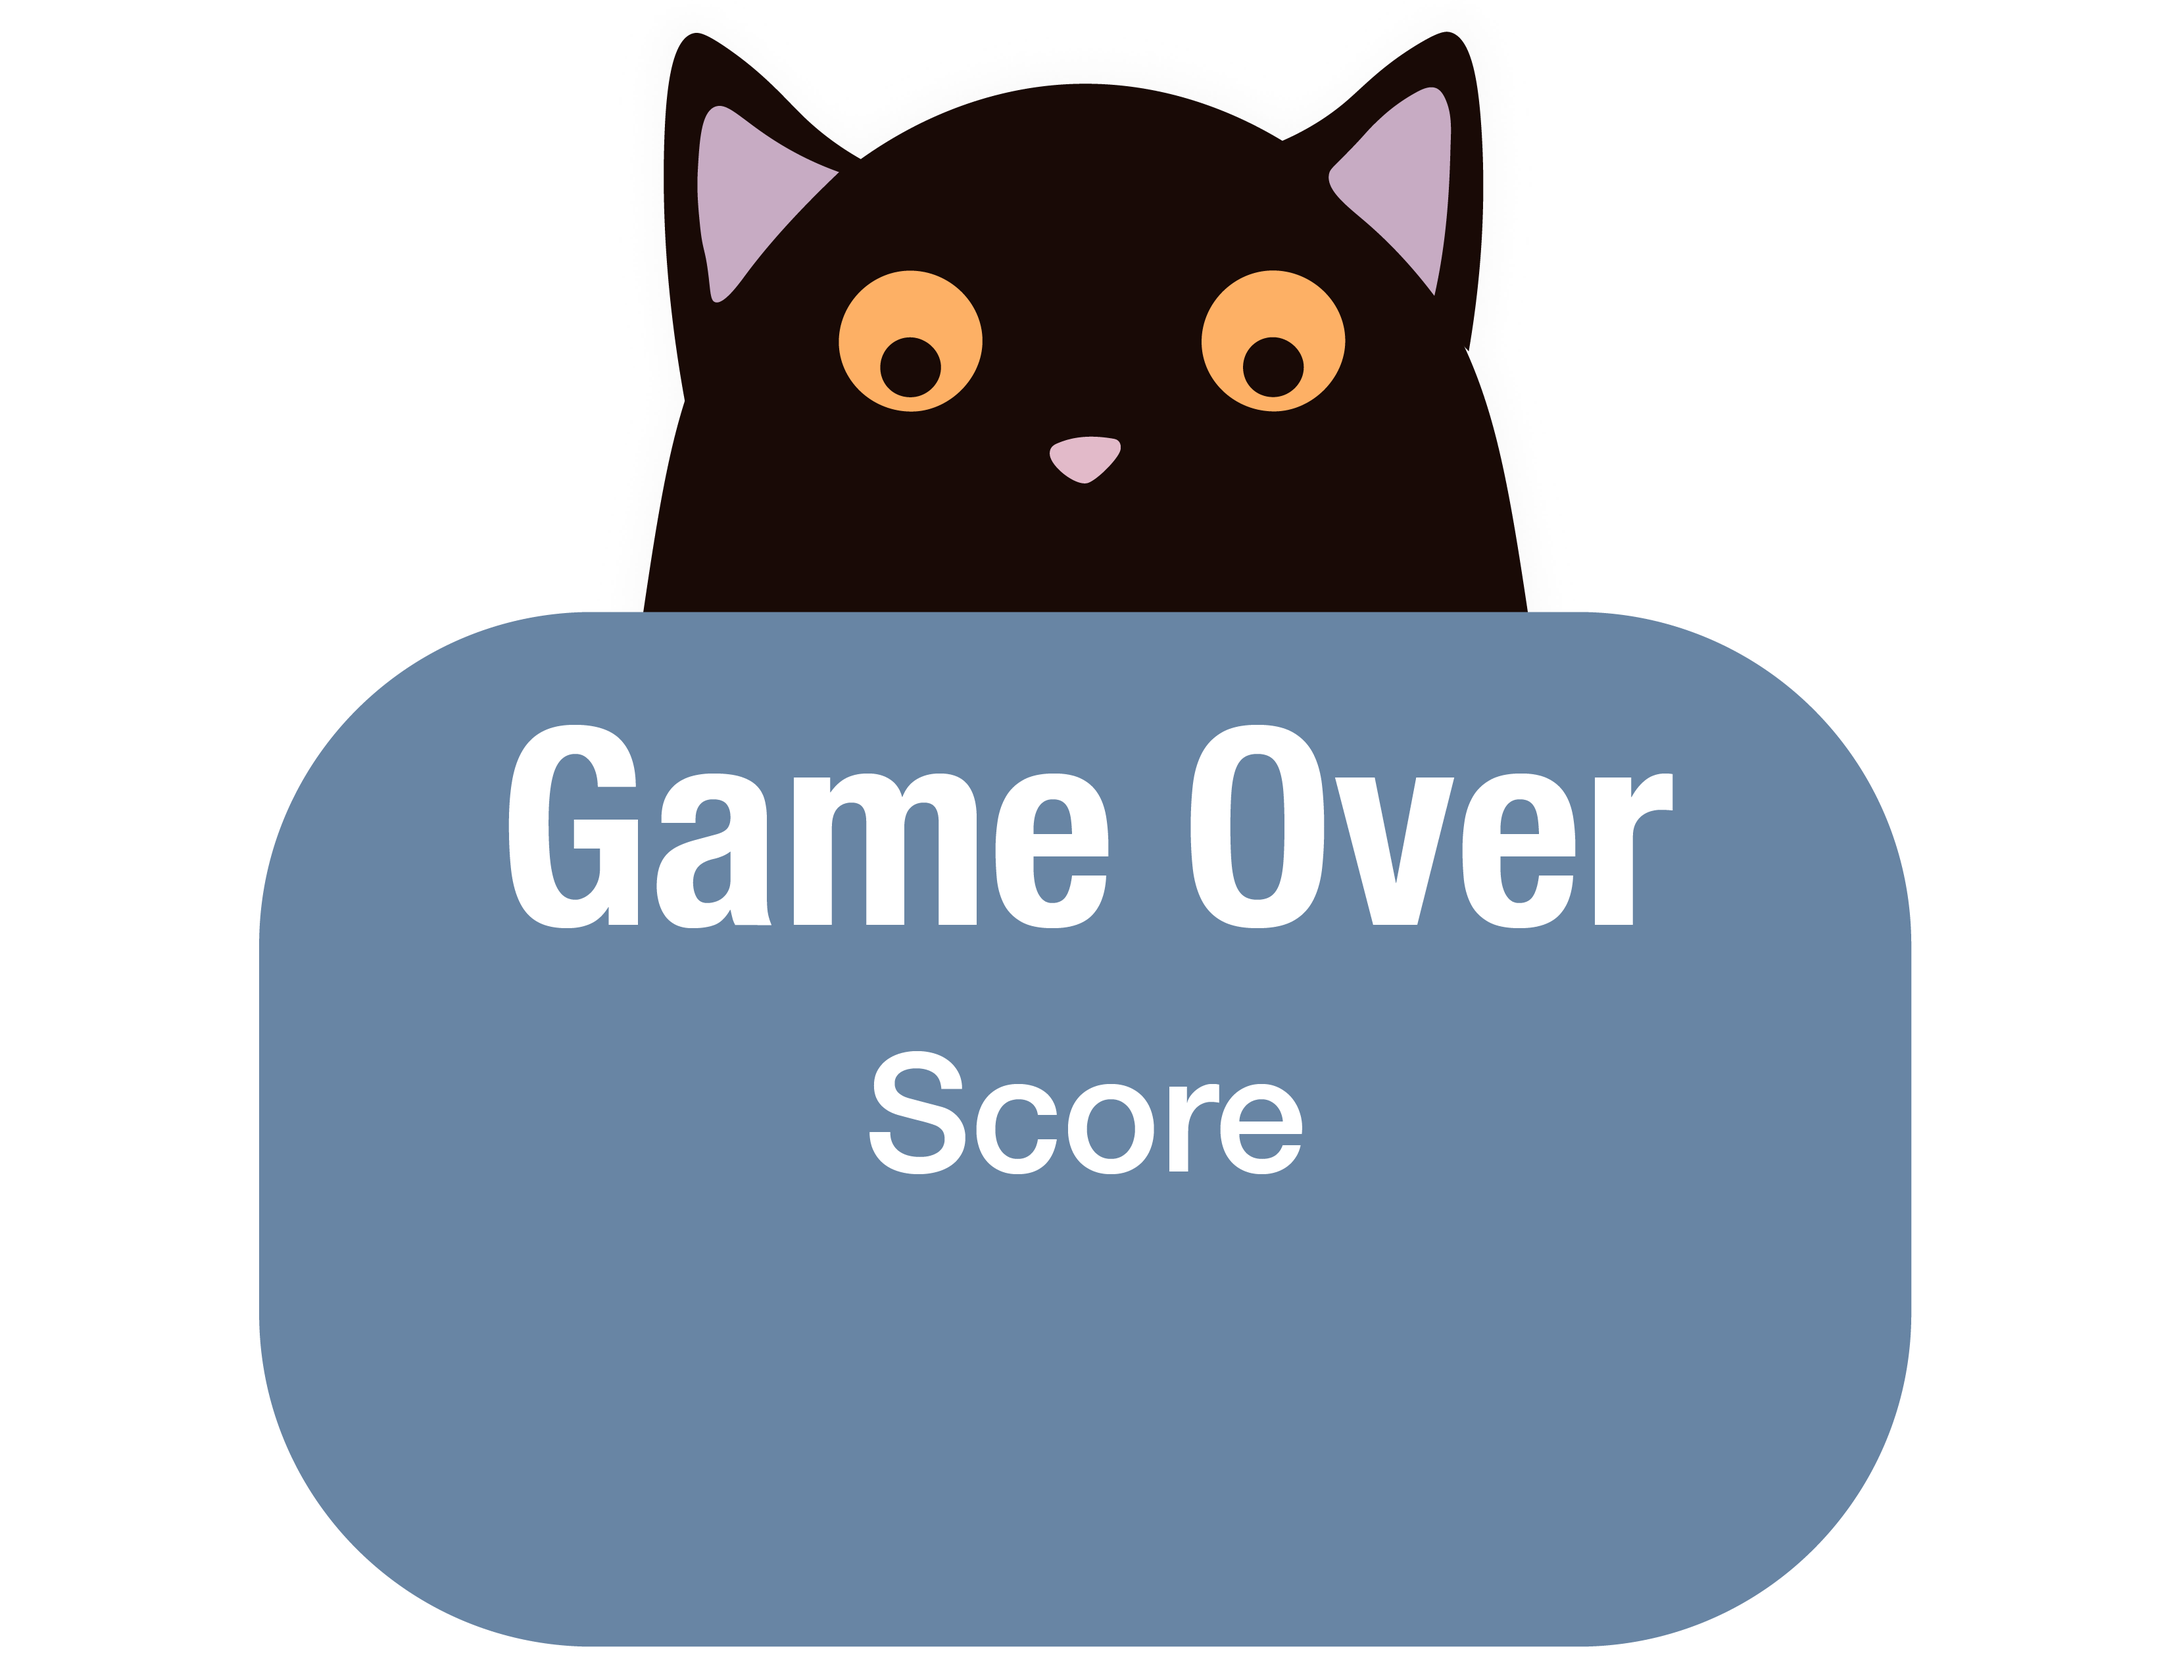
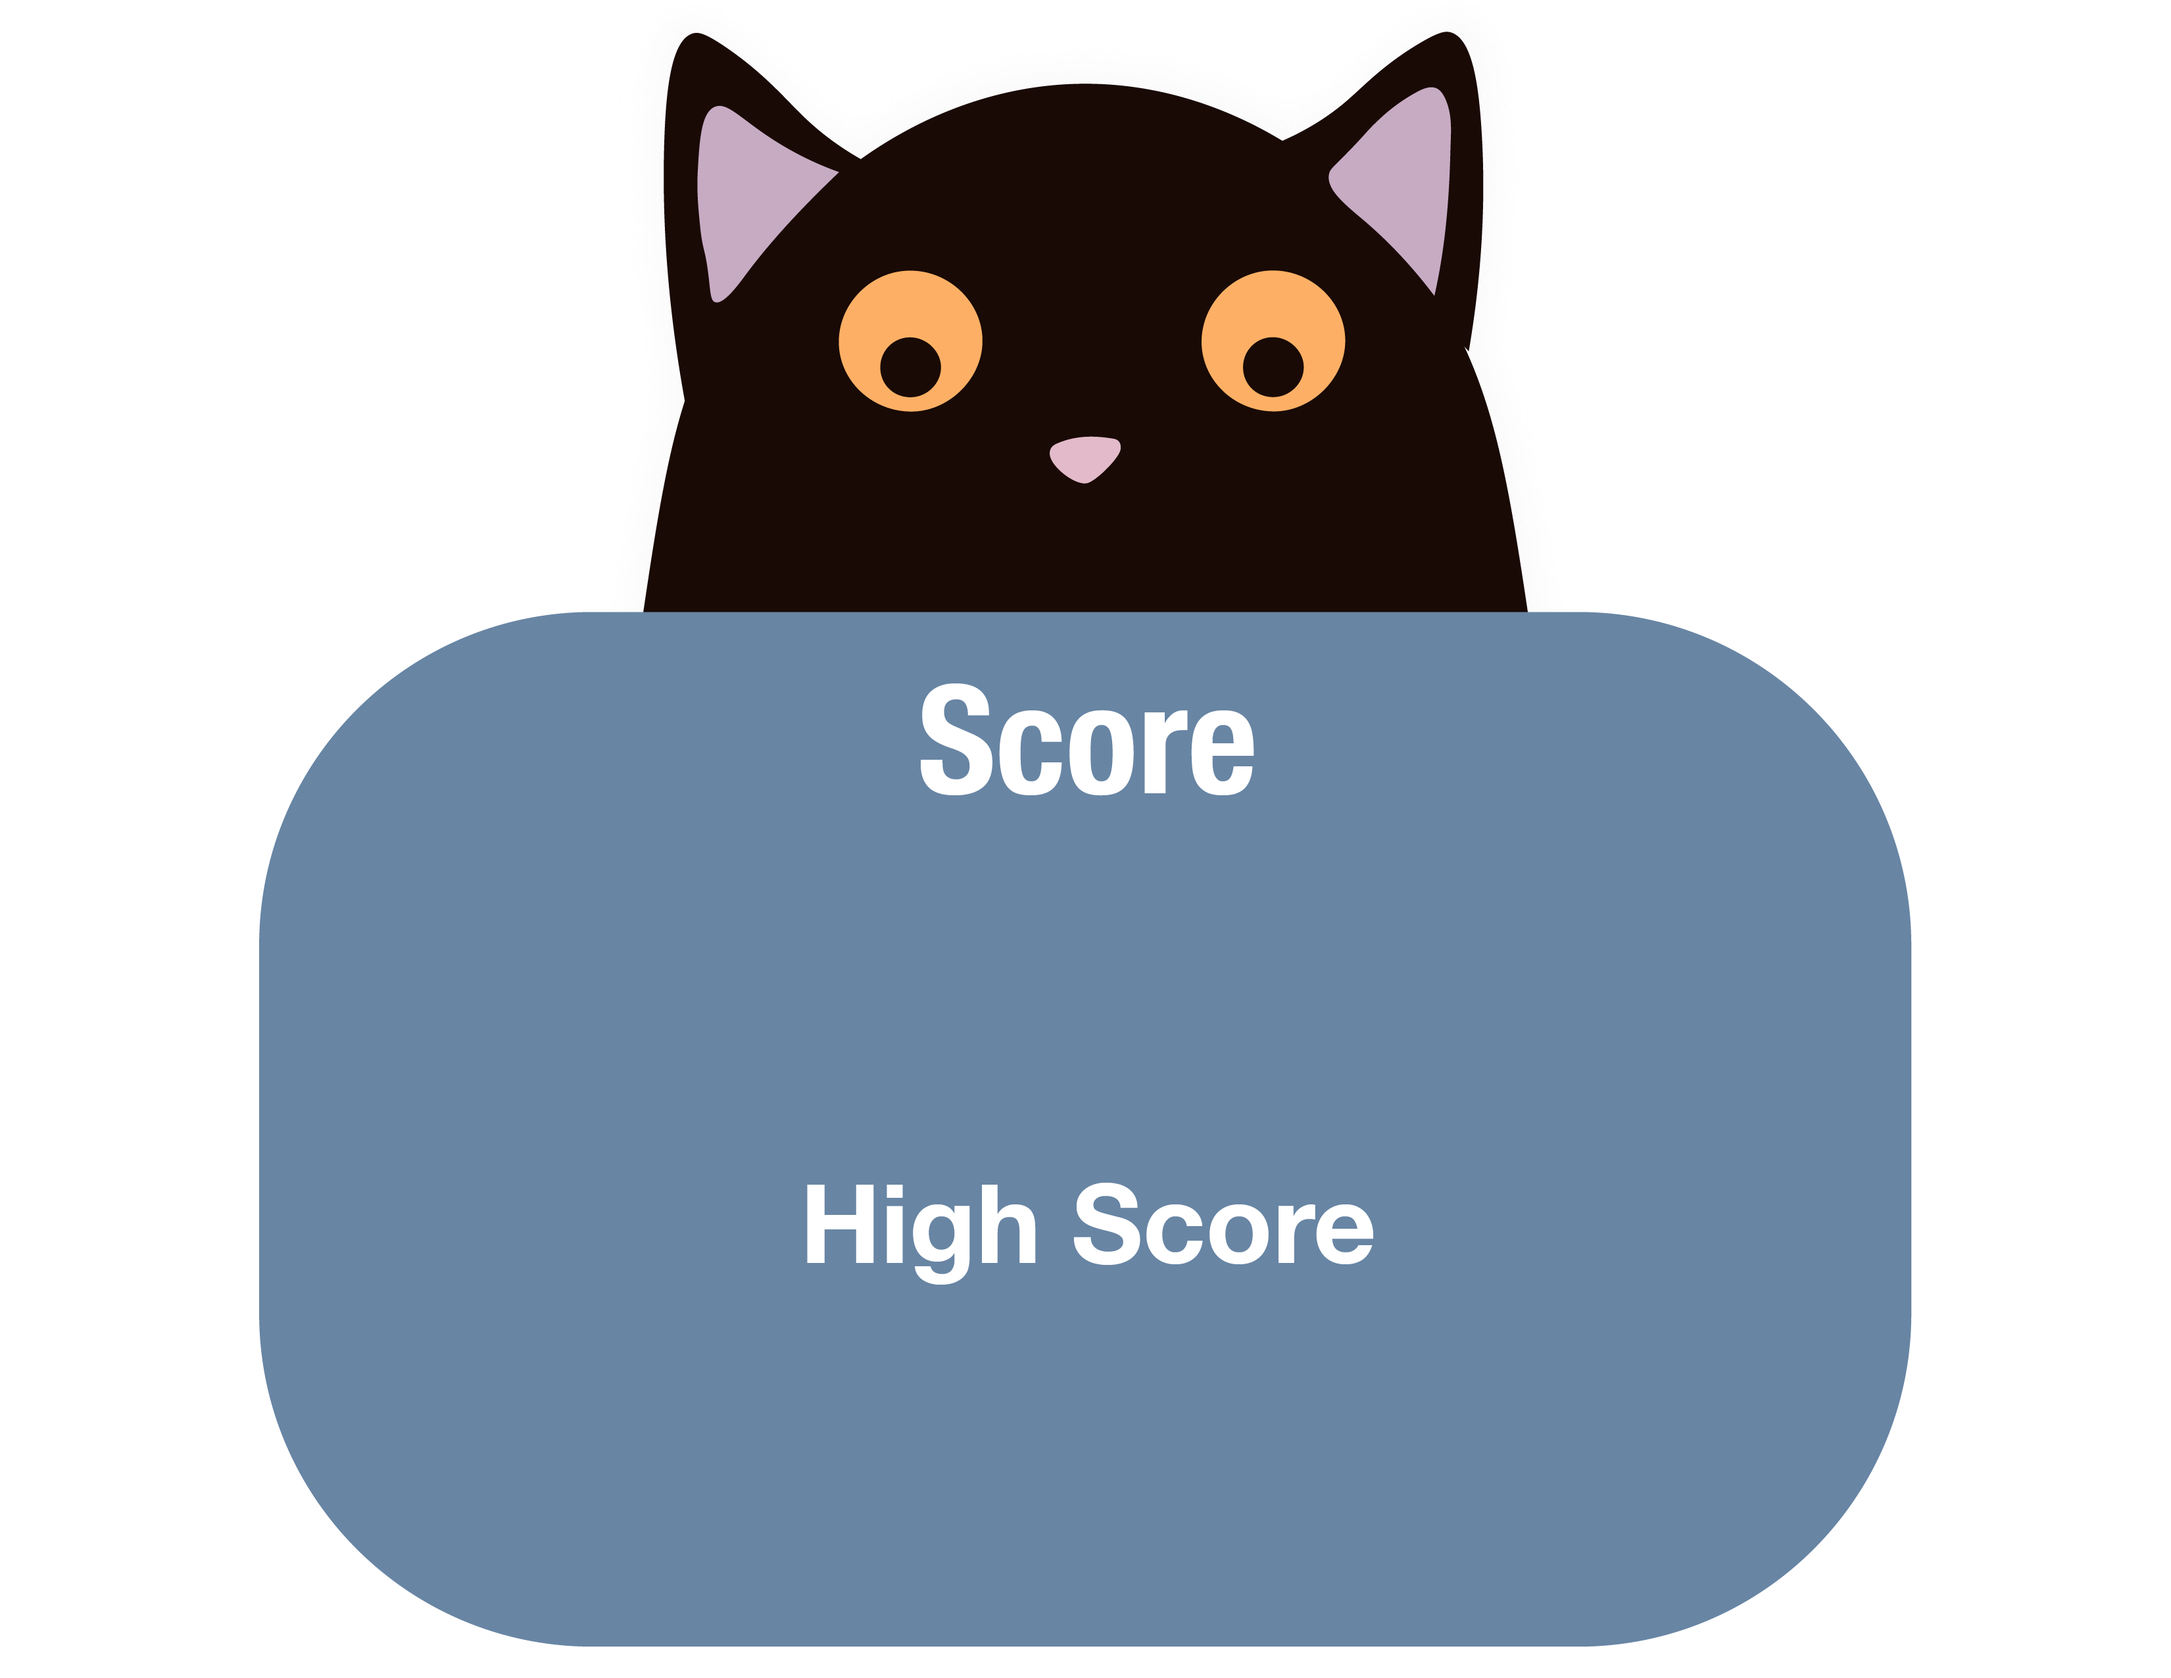
added high score feature

Changed region(s): [[0.2184, 0.4026, 0.7801, 0.5574], [0.3744, 0.6194, 0.6553, 0.7742]]

diff --git a/Assets/Scripts/RestartGame.cs b/Assets/Scripts/RestartGame.cs
@@ -14,16 +14,25 @@ public class RestartGame : MonoBehaviour
     [SerializeField] private Button restart;
     [SerializeField] private Button mainMenu;
     [SerializeField] private GameObject player;
+    [SerializeField] private Text highScoreGUI;
     private Vector3 scoreCardHidden;
     private Vector3 scoreCardShown;
 
     private int score;
+    private int highScore;
     
     void Start()
     {
         //change later!
         score = PlayerPrefs.GetInt("Score");
+
+        if (score > PlayerPrefs.GetInt("highScore"))
+        {
+            PlayerPrefs.SetInt("highScore", score);
+        }
+        highScore = PlayerPrefs.GetInt("highScore");
         scoreGUI.horizontalOverflow = HorizontalWrapMode.Overflow;
+        highScoreGUI.horizontalOverflow = HorizontalWrapMode.Overflow;
         scoreCardHidden = new Vector3(0, 1300, 0);
         scoreCardShown = new Vector3(0, 70, 0);
         restart.onClick.AddListener(RestartOnClick);
@@ -38,6 +47,7 @@ public class RestartGame : MonoBehaviour
     void OnGUI()
     {    
         scoreGUI.text = score.ToString();
+        highScoreGUI.text = highScore.ToString();
     }
 
     void RestartOnClick()
